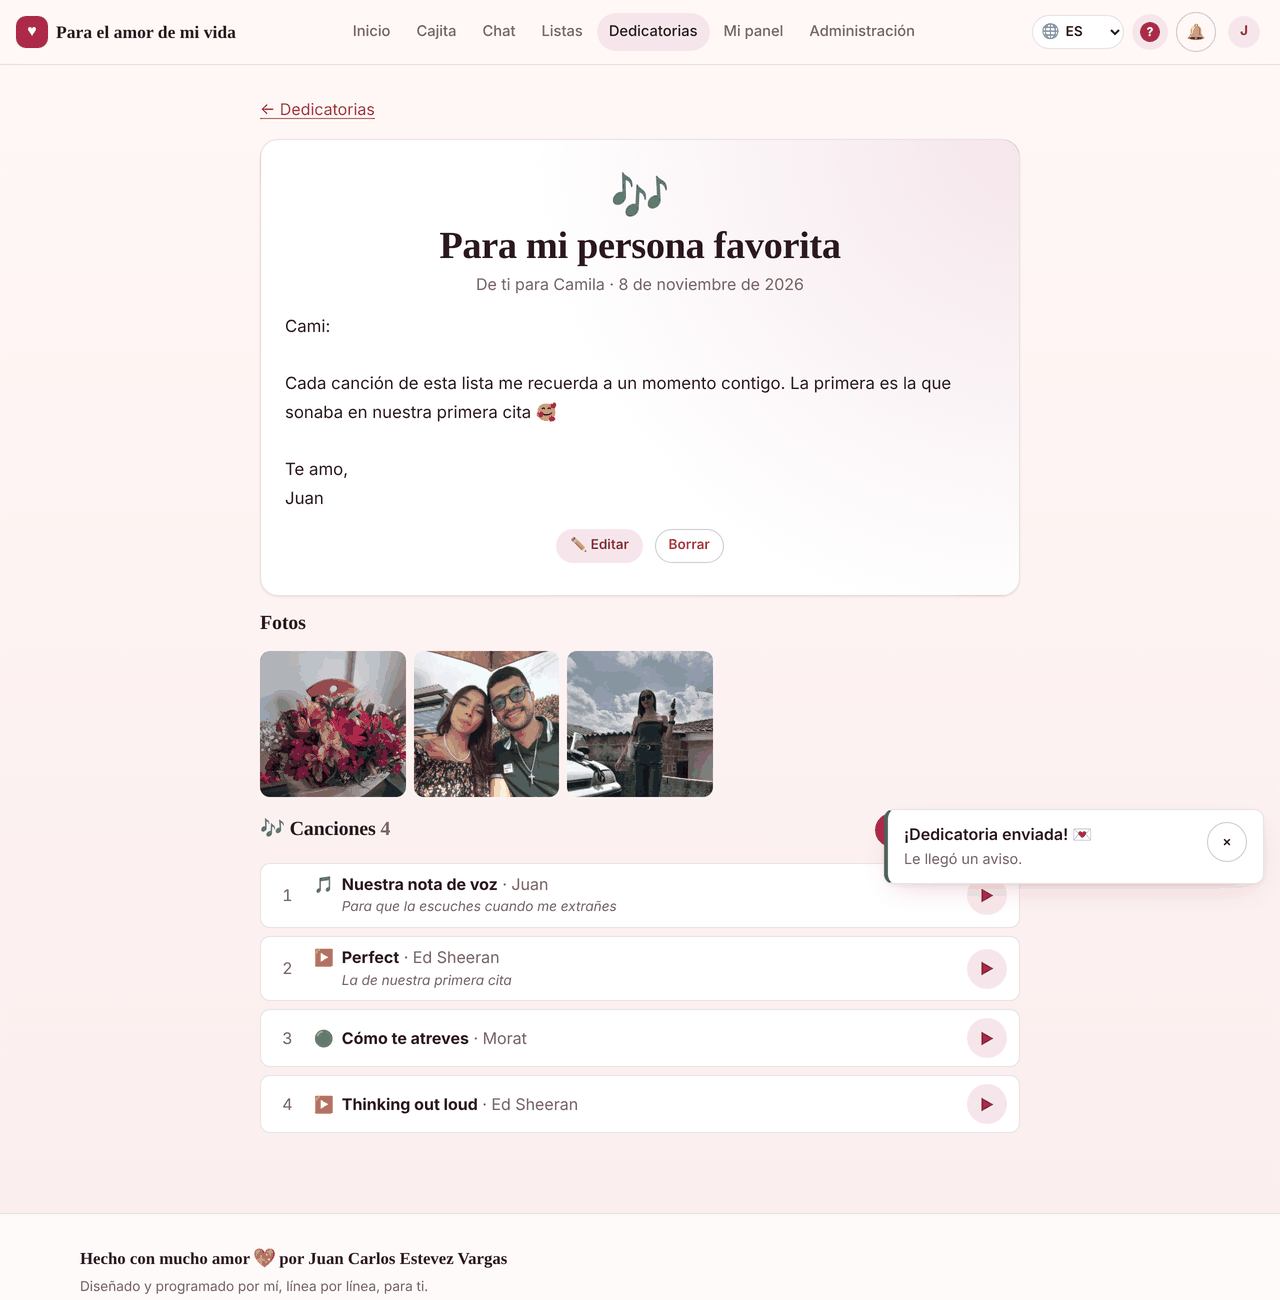
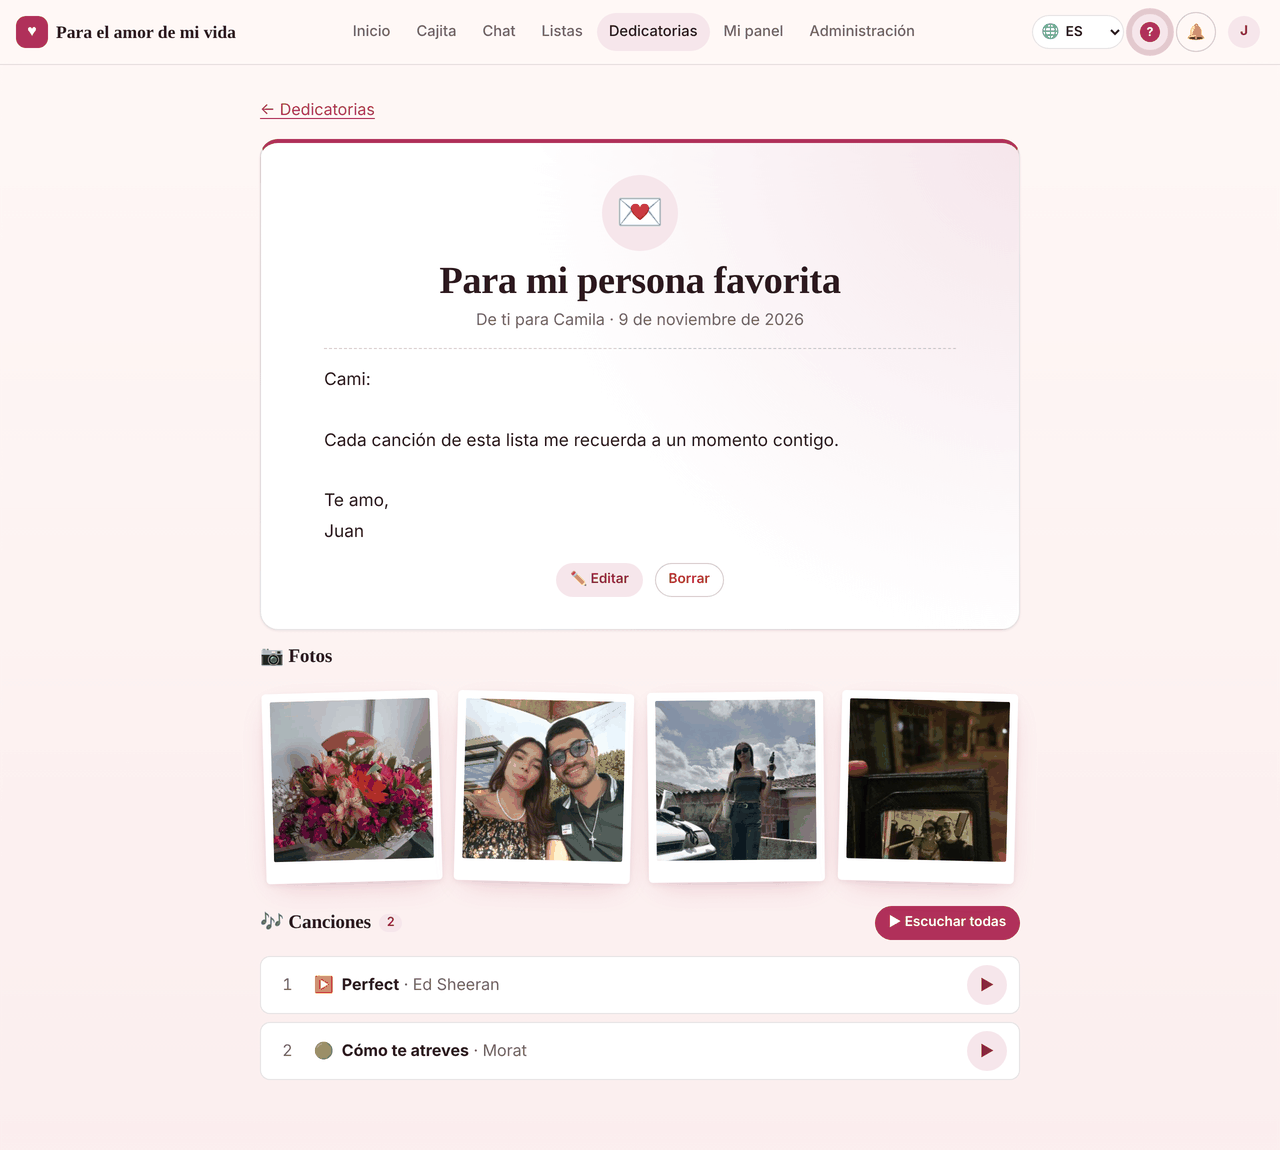
fix(dedicatorias): portadas parejas, fotos como polaroids y carta más cuidada
- Las tarjetas tienen portada 4:3 aunque la foto sea vertical, con el emoji como sello y fotos/canciones en chips.
- En la carta, las fotos van como polaroids; una sola foto se ve centrada, con su forma y en buena calidad.
- El emoji va en un círculo, el mensaje separado del título y los contadores en pastillas.

Claude-Session: https://claude.ai/code/session_01Y6XnMsTzzJqkJVYeZrB3YA

diff --git a/src/features/dedications/styles/dedications.scss b/src/features/dedications/styles/dedications.scss
@@ -31,8 +31,9 @@
 
 .dedication-grid {
   display: grid;
-  grid-template-columns: repeat(auto-fill, minmax(260px, 1fr));
+  grid-template-columns: repeat(auto-fill, minmax(250px, 1fr));
   gap: space(4);
+  align-items: start;
 }
 
 .dedication-card {
@@ -48,35 +49,99 @@
     border-radius: inherit;
 
     &:hover .dedication-card__title { color: var(--c-primary-strong); }
+    &:hover .dedication-card__cover img { transform: scale(1.04); }
   }
 
+  // La portada siempre mide lo mismo, sea la foto vertical u horizontal.
   &__cover {
-    aspect-ratio: 16 / 9;
+    position: relative;
+    aspect-ratio: 4 / 3;
+    overflow: hidden;
     display: grid;
     place-items: center;
-    font-size: 3rem;
     background: linear-gradient(135deg, var(--c-primary-soft), tint(var(--c-accent), 70%));
 
-    img { width: 100%; height: 100%; object-fit: cover; }
+    img {
+      position: absolute;
+      inset: 0;
+      width: 100%;
+      height: 100%;
+      object-fit: cover;
+      transition: transform 0.4s $ease;
+    }
+
+    &.has-photo::after {
+      content: "";
+      position: absolute;
+      inset: 0;
+      background: linear-gradient(to bottom, transparent 55%, rgb(0 0 0 / 25%));
+    }
+  }
+
+  &__cover-emoji {
+    font-size: 3.4rem;
+    line-height: 1;
+    filter: drop-shadow(0 6px 12px rgb(0 0 0 / 12%));
   }
 
   &__body {
+    position: relative;
     display: grid;
+    align-content: start;
     gap: space(1);
     padding: space(3) space(4) space(4);
     min-width: 0;
   }
 
-  &__title { font-size: 1.1rem; @include truncate; }
-  &__meta { font-size: 0.85rem; @include truncate; }
+  // El emoji asoma sobre la foto, como un sello.
+  &__badge {
+    position: absolute;
+    top: -22px;
+    left: space(4);
+    width: 44px;
+    height: 44px;
+    display: grid;
+    place-items: center;
+    border-radius: 50%;
+    background: var(--c-surface);
+    box-shadow: var(--shadow);
+    font-size: 1.4rem;
+
+    & ~ .dedication-card__title { margin-top: space(3); }
+  }
+
+  &__title {
+    font-family: var(--font-display, inherit);
+    font-size: 1.15rem;
+    line-height: 1.3;
+    @include truncate;
+  }
+
+  &__meta { font-size: 0.82rem; overflow-wrap: anywhere; }
 
   &__excerpt {
-    font-size: 0.9rem;
+    font-size: 0.92rem;
+    margin-top: space(1);
     display: -webkit-box;
     -webkit-line-clamp: 2;
     -webkit-box-orient: vertical;
     overflow: hidden;
     overflow-wrap: anywhere;
+  }
+
+  &__chips {
+    display: flex;
+    flex-wrap: wrap;
+    gap: space(1);
+    margin-top: space(2);
+  }
+
+  &__chip {
+    font-size: 0.78rem;
+    padding: 2px space(2);
+    border-radius: 999px;
+    background: var(--c-surface-2);
+    color: var(--c-muted);
   }
 
   &__play {
@@ -93,11 +158,29 @@
   max-width: 760px;
 
   &__back { width: fit-content; }
-  &__heading { font-size: 1.25rem; margin: 0; }
+
+  &__heading {
+    font-size: 1.2rem;
+    margin: 0;
+    display: flex;
+    align-items: center;
+    gap: space(2);
+  }
+
+  &__count {
+    font-family: var(--font-body, inherit);
+    font-size: 0.78rem;
+    font-weight: 600;
+    padding: 2px space(2);
+    border-radius: 999px;
+    background: var(--c-primary-soft);
+    color: var(--c-primary-strong);
+  }
 }
 
 .dedication-letter {
   padding: space(6) space(5);
+  border-top: 4px solid var(--c-primary);
   display: grid;
   gap: space(4);
   background:
@@ -115,13 +198,29 @@
     p { margin: 0; }
   }
 
-  &__emoji { font-size: 3rem; line-height: 1; }
+  &__emoji {
+    justify-self: center;
+    width: 76px;
+    height: 76px;
+    display: grid;
+    place-items: center;
+    border-radius: 50%;
+    background: var(--c-primary-soft);
+    font-size: 2.4rem;
+    line-height: 1;
+    margin-bottom: space(1);
+  }
 
   &__message {
     white-space: pre-wrap;
     overflow-wrap: anywhere;
-    font-size: 1.05rem;
-    line-height: 1.7;
+    font-size: 1.08rem;
+    line-height: 1.75;
+    max-width: 58ch;
+    width: 100%;
+    justify-self: center;
+    padding-top: space(4);
+    border-top: 1px dashed var(--c-border-strong);
   }
 
   &__owner {
@@ -195,6 +294,53 @@
 }
 
 .ded-thumbs { grid-template-columns: repeat(auto-fill, minmax(84px, 1fr)); }
+
+// En la carta, las fotos van como polaroids un poco ladeadas.
+.ded-photos {
+  grid-template-columns: repeat(auto-fill, minmax(150px, 1fr));
+  gap: space(4);
+  padding: space(2) space(1);
+
+  &__item {
+    aspect-ratio: auto;
+    overflow: visible;
+    padding: 8px 8px 22px;
+    border-radius: 4px;
+    background: #fff;
+    box-shadow: var(--shadow);
+    transform: rotate(-1.6deg);
+    transition: transform 0.25s $ease, box-shadow 0.25s $ease;
+
+    &:nth-child(2n) { transform: rotate(1.4deg); }
+    &:nth-child(3n) { transform: rotate(-0.6deg); }
+    &:hover, &:focus-within { transform: rotate(0) scale(1.03); box-shadow: var(--shadow-lg); z-index: 1; }
+
+    &.is-loading { aspect-ratio: 1; padding: 0; }
+  }
+
+  &__open {
+    aspect-ratio: 1;
+    overflow: hidden;
+    border-radius: 2px;
+    background: var(--c-surface-2);
+  }
+
+  &__remove { top: 12px; right: 12px; }
+
+  // Una sola foto: centrada, más grande y con su forma (vertical u horizontal).
+  &.is-single {
+    grid-template-columns: minmax(0, 300px);
+    justify-content: center;
+
+    .ded-photos__item { transform: rotate(-1deg); }
+    .ded-photos__open { aspect-ratio: auto; max-height: 420px; }
+    .ded-photos__open img { height: auto; max-height: 420px; }
+  }
+
+  @media (prefers-reduced-motion: reduce) {
+    &__item, &__item:nth-child(n) { transform: none; }
+  }
+}
 
 .dedication-photo-viewer {
   display: grid;

diff --git a/src/features/dedications/DedicationPage.tsx b/src/features/dedications/DedicationPage.tsx
@@ -53,7 +53,9 @@ export default function DedicationPage() {
   const [item = null, profiles = [], rolePermissions = []] = data ?? [];
   const people = useRecipients(profiles, rolePermissions);
   const { fromTo } = usePeopleNames(profiles);
-  const thumbs = useDedicationMedia(item?.photos.map((p) => p.thumbPath) ?? []);
+  // Una sola foto se ve grande: se usa la original en vez de la miniatura.
+  const shownPath = (p: { path: string; thumbPath: string }) => (item?.photos.length === 1 ? p.path : p.thumbPath);
+  const thumbs = useDedicationMedia(item?.photos.map(shownPath) ?? []);
   const queue = useMemo(() => (item ? toPlayerTracks(buildPlaylist([item])) : []), [item]);
 
   useEffect(() => {
@@ -164,13 +166,13 @@ export default function DedicationPage() {
       {(photos.length > 0 || editing) && (
         <section className="stack" aria-labelledby="dedication-photos">
           <h2 id="dedication-photos" className="dedication-page__heading">
-            {t.form.photos} {editing && <span className="muted">{photos.length}/{MAX_DEDICATION_PHOTOS}</span>}
+            📷 {t.form.photos} {editing && <span className="dedication-page__count">{photos.length}/{MAX_DEDICATION_PHOTOS}</span>}
           </h2>
           <div className={`ded-photos${photos.length === 1 ? " is-single" : ""}`}>
             {photos.map((photo, i) => (
               <div key={photo.id} className="ded-photos__item">
                 <button type="button" className="ded-photos__open" onClick={() => setViewing(photo.path)} aria-label={t.page.photoAlt(i + 1)}>
-                  {thumbs.get(photo.thumbPath) ? <img src={thumbs.get(photo.thumbPath)} alt="" loading="lazy" /> : <span aria-hidden>📷</span>}
+                  {thumbs.get(shownPath(photo)) ? <img src={thumbs.get(shownPath(photo))} alt="" loading="lazy" /> : <span aria-hidden>📷</span>}
                 </button>
                 {editing && (
                   <button type="button" className="ded-photos__remove" aria-label={t.form.removePhoto}
@@ -190,7 +192,7 @@ export default function DedicationPage() {
       <section className="stack" aria-labelledby="dedication-songs">
         <div className="row-between">
           <h2 id="dedication-songs" className="dedication-page__heading">
-            🎶 {t.form.songs} {songs.length > 0 && <span className="muted">{songs.length}</span>}
+            🎶 {t.form.songs} {songs.length > 0 && <span className="dedication-page__count">{songs.length}</span>}
           </h2>
           <div className="row">
             {songs.length > 0 && <button className="btn btn--sm" data-tour="dedication-play" onClick={() => player.play(queue, 0, { shuffle: false })}>{t.page.playAll}</button>}

diff --git a/src/features/dedications/DedicationsPage.tsx b/src/features/dedications/DedicationsPage.tsx
@@ -30,16 +30,23 @@ function DedicationCard({ item, fromTo, cover }: { item: DedicationWithMedia; fr
   const { dedication, photos, songs } = item;
   const counts = t.counts(photos.length, songs.length);
   return (
-    <article className="dedication-card card">
+    <article className="dedication-card card card--interactive">
       <Link to={`/dedicatorias/${dedication.id}`} className="dedication-card__link">
         <span className={`dedication-card__cover${cover ? " has-photo" : ""}`} aria-hidden>
-          {cover ? <img src={cover} alt="" loading="lazy" /> : <span>{dedication.emoji}</span>}
+          {cover ? <img src={cover} alt="" loading="lazy" /> : <span className="dedication-card__cover-emoji">{dedication.emoji}</span>}
         </span>
         <span className="dedication-card__body">
-          <strong className="dedication-card__title">{dedication.emoji} {dedication.title}</strong>
-          <span className="muted dedication-card__meta">{fromTo}</span>
-          <span className="muted dedication-card__meta">{formatLongDate(dedication.dedicatedOn)}{counts && ` · ${counts}`}</span>
+          {cover && <span className="dedication-card__badge" aria-hidden>{dedication.emoji}</span>}
+          <strong className="dedication-card__title">{dedication.title}</strong>
+          <span className="muted dedication-card__meta">{fromTo} · {formatLongDate(dedication.dedicatedOn)}</span>
           {dedication.message && <span className="dedication-card__excerpt">{dedication.message}</span>}
+          {counts && (
+            <span className="dedication-card__chips">
+              <span className="visually-hidden">{counts}</span>
+              {photos.length > 0 && <span className="dedication-card__chip" aria-hidden>📷 {photos.length}</span>}
+              {songs.length > 0 && <span className="dedication-card__chip" aria-hidden>🎵 {songs.length}</span>}
+            </span>
+          )}
         </span>
       </Link>
       {songs.length > 0 && (
